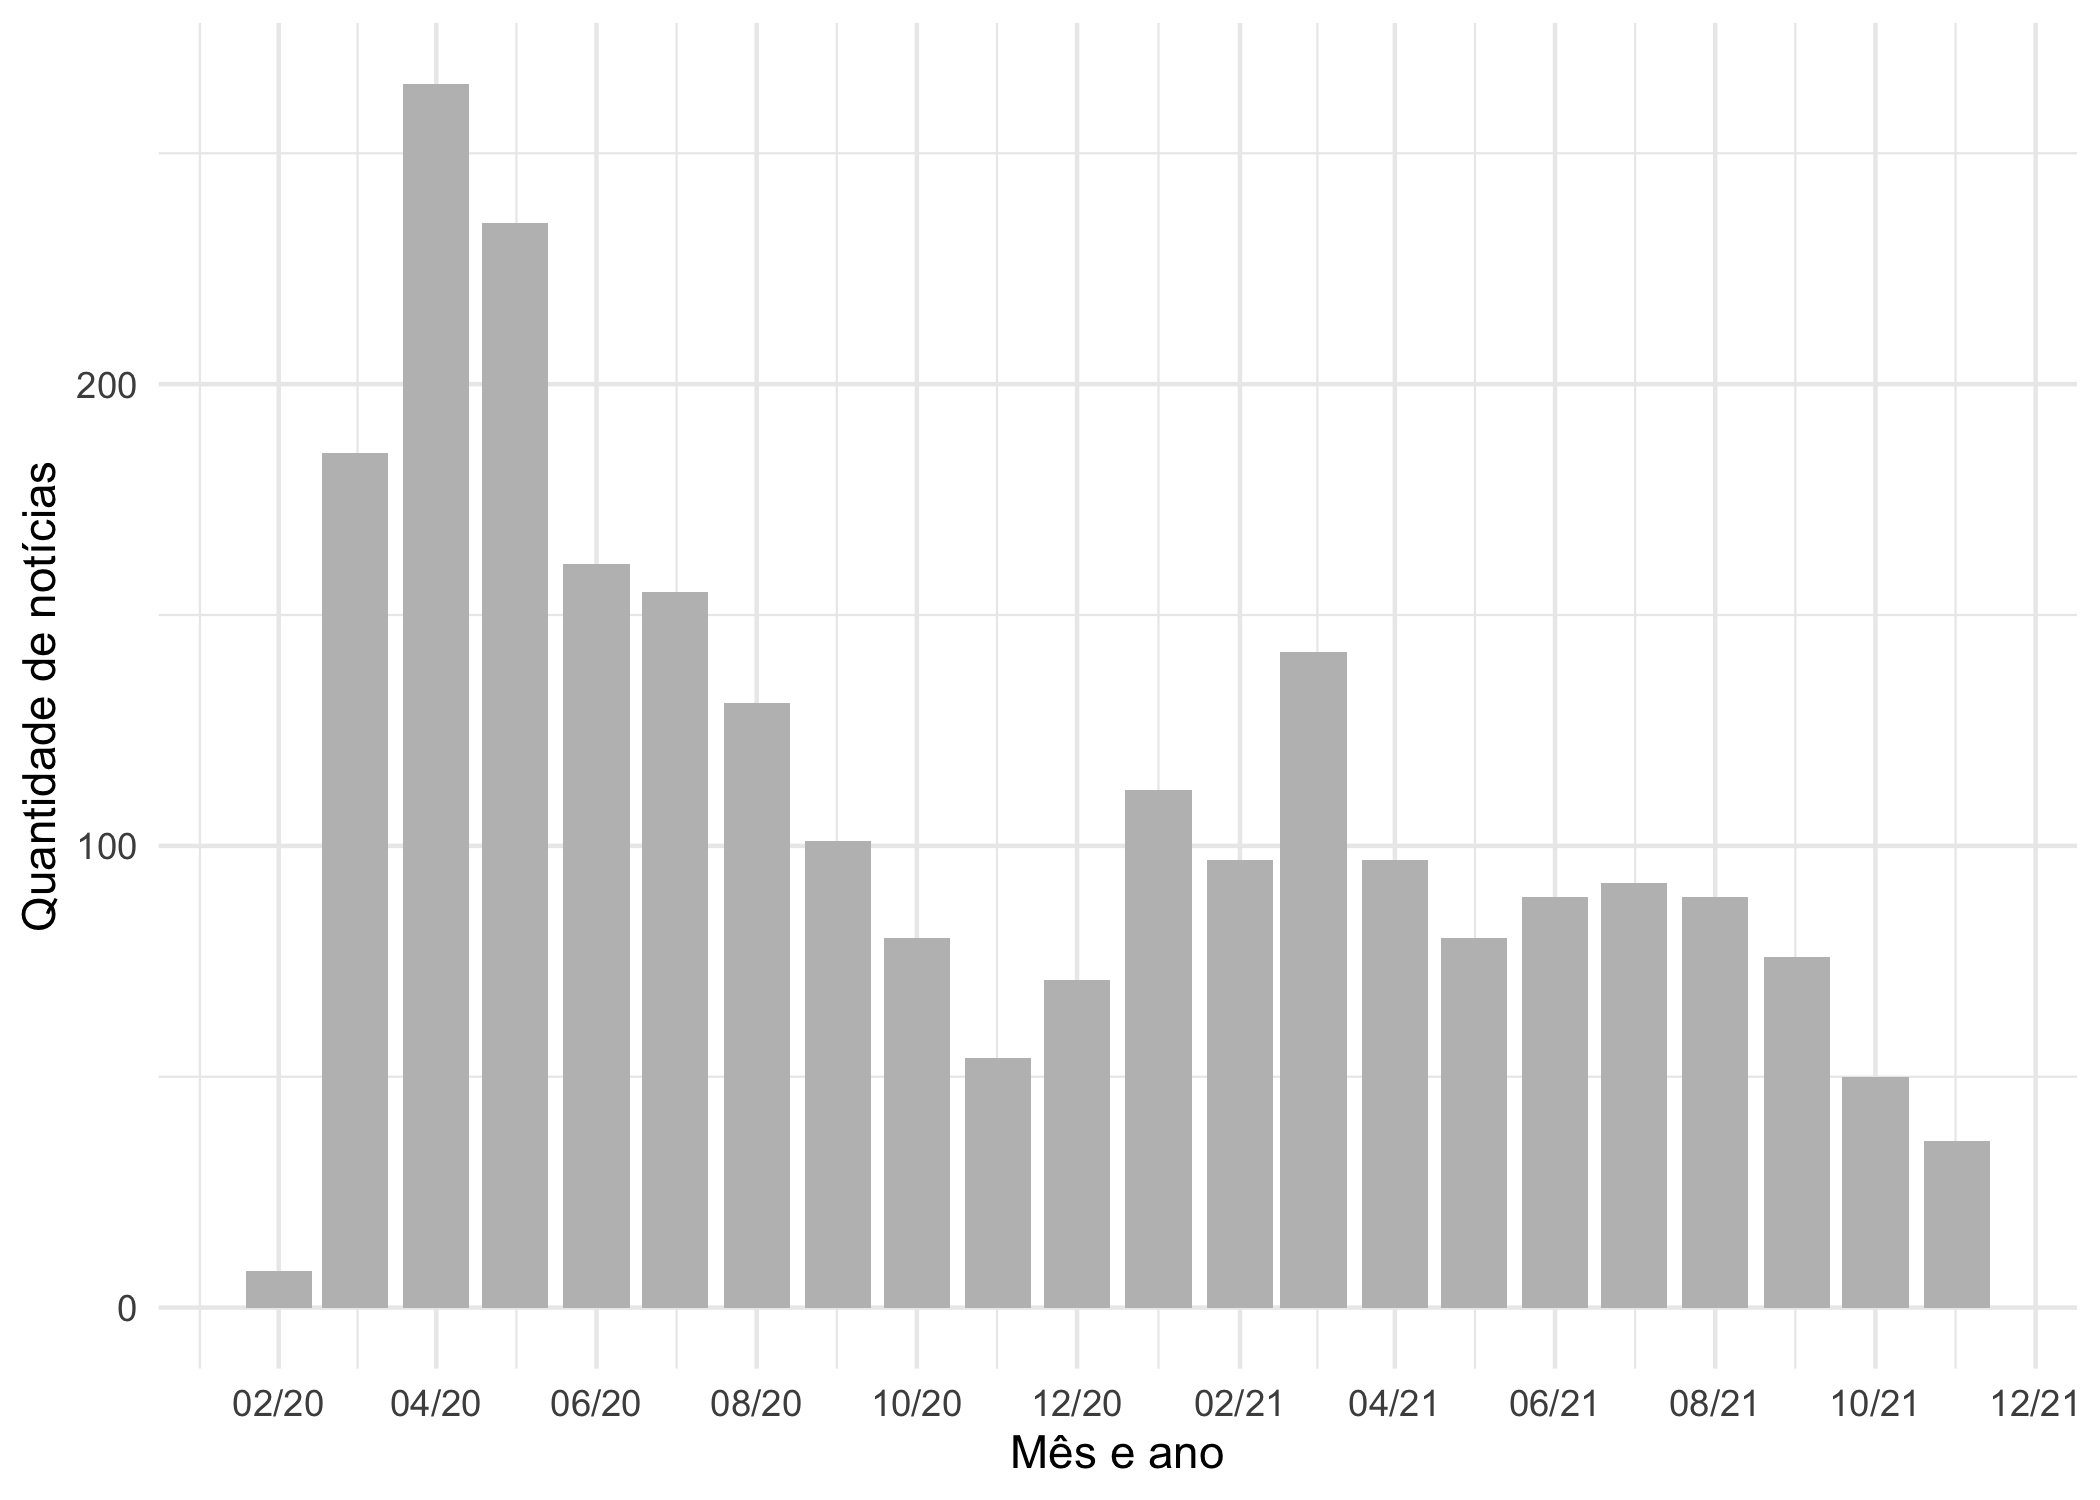
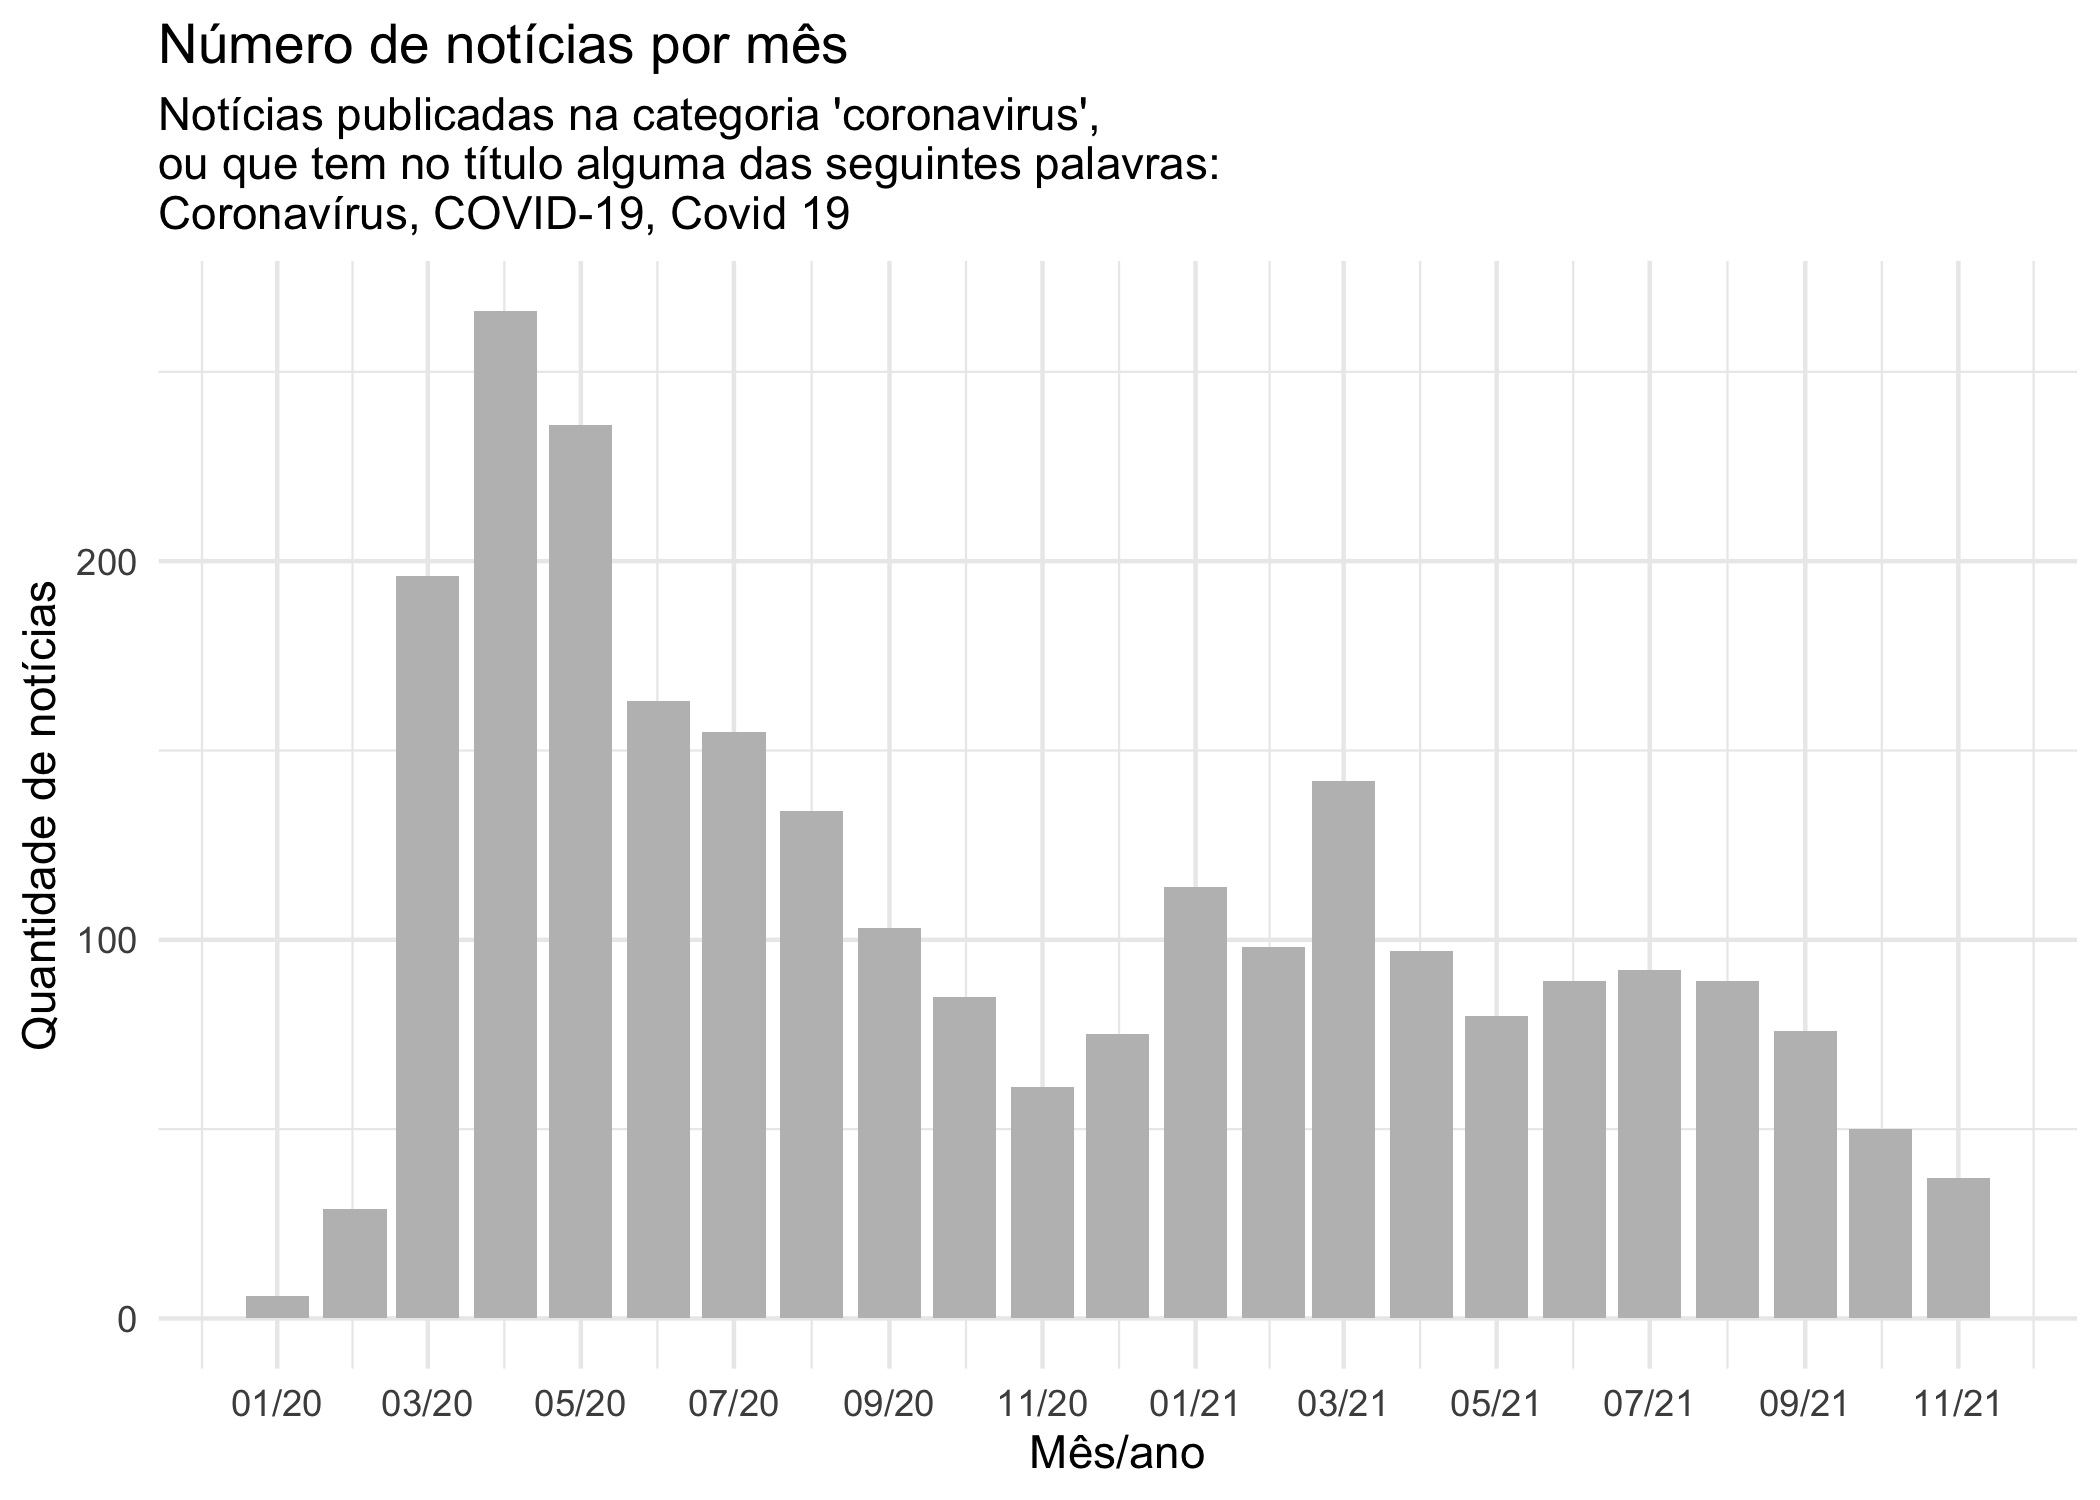
atualiza readme

diff --git a/README.md b/README.md
@@ -44,9 +44,11 @@ tempo:
 library(ggplot2)
 
 noticias_sp_filtradas <- base_noticias_gov_sp %>%
+  dplyr::mutate(titulo_clean = stringr::str_to_lower(titulo),
+                titulo_clean = abjutils::rm_accent(titulo_clean)) %>% 
   dplyr::filter(
     stringr::str_detect(categorias, "coronavirus") |
-      stringr::str_detect(titulo, "COVID-19|coronavirus|Covid-19")
+      stringr::str_detect(titulo_clean, "covid-19|coronavirus|covid 19")
   )
 
 
@@ -56,7 +58,8 @@ noticias_sp_filtradas %>%
   ggplot() +
   geom_col(aes(x = mes, y = n), fill = "gray") +
   scale_x_date(date_labels = "%m/%y", date_breaks = "2 months") +
-  labs(y = "Quantidade de notícias", x = "Mês e ano") +
+  labs(y = "Quantidade de notícias", x = "Mês/ano", title = "Número de notícias por mês",
+       subtitle = "Notícias publicadas na categoria 'coronavirus', \nou que tem no título alguma das seguintes palavras:  \nCoronavírus, COVID-19, Covid 19") +
   theme_minimal()
 ```
 
